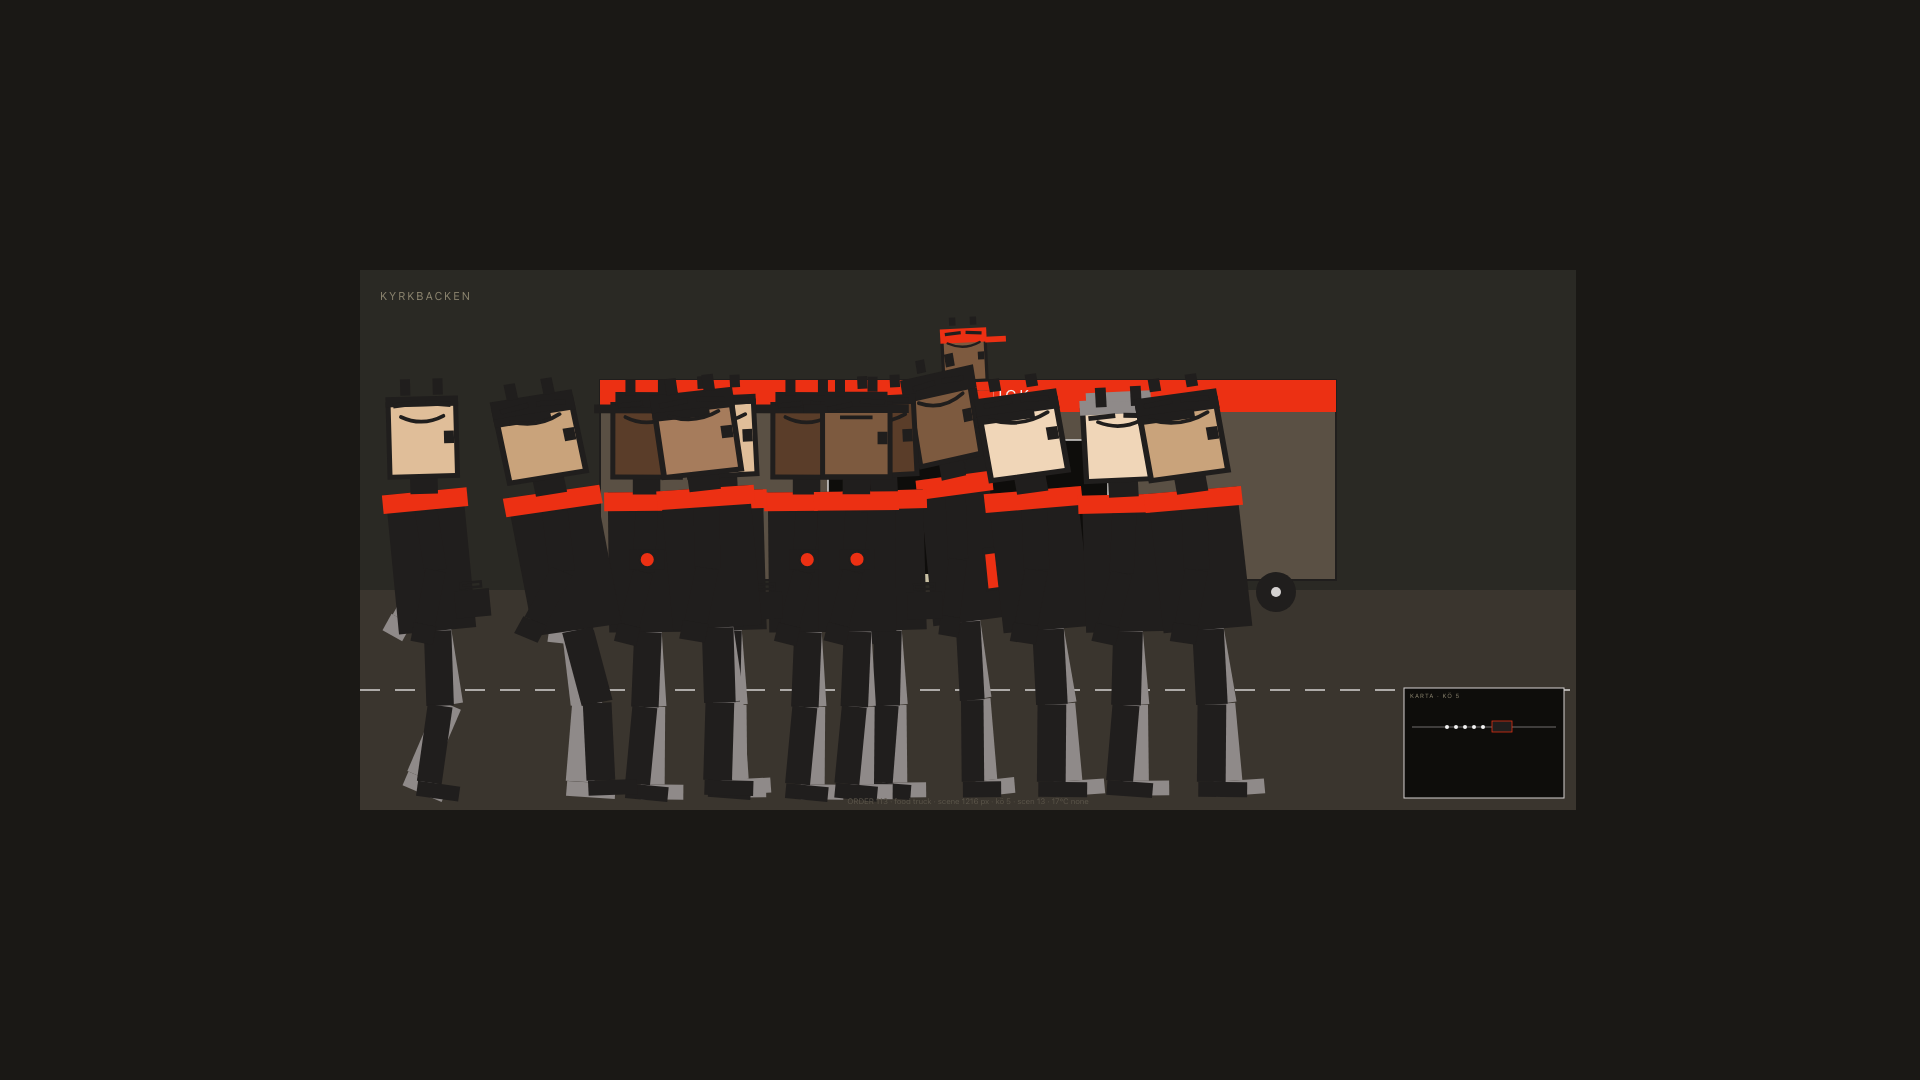
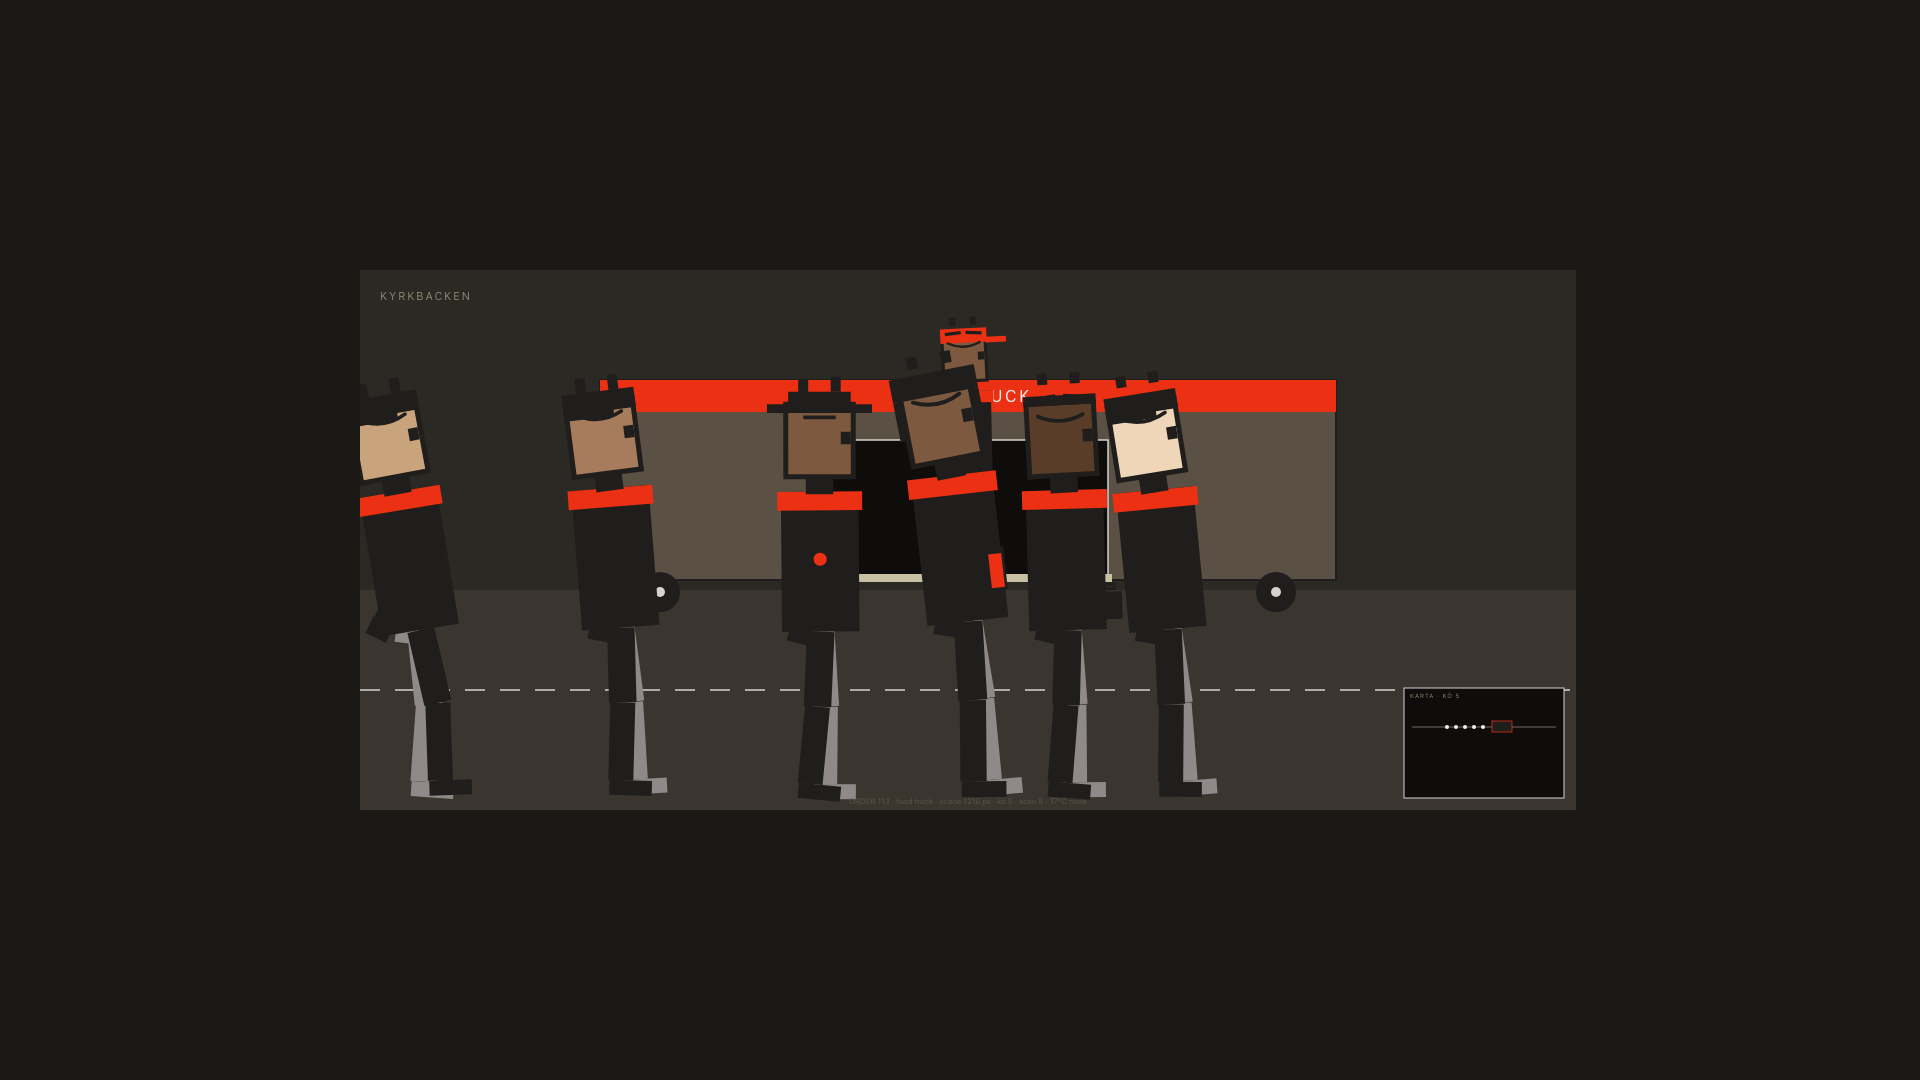
fix(foodtruck): ORDER 114 rättning — figur-proportioner + kö-spacing
Vision Owner-fynd 2026-08-17 mot faces.png från 2461ab6:
  1. Köavståndet skalades inte med figurstorleken — figurerna
     överlappar.
  2. Proportionerna: huvudet nästan lika brett som kroppen,
     överkroppen för kort mot benen.
  3. Ansiktena går inte att läsa trots 140 px.
  4. Accentremsan bildar ett band tvärs över alla figurer.

Rot-orsak för #2: Figure.tsx applicerade NON-UNIFORM x/y-skalning
`scale(scale * widthMult, scale * heightMult)`. För efter_skiftets
widthMult=1.15 blev huvudet 62 SVG-units brett (istället för 54),
vilket bröt prototypens proportioner. Prototypens Guest.tsx rad 115
använder uniform `scale(${scale})`.

Rot-orsak för #1 + #4: QUEUE_SLOT_SPACING = 280 SVG-units + counter-
offset som pendlade ÅT VÄNSTER (mot kön) gjorde att counter-figurer
överlappade slot 0. Kombinerat med seed=8 + organiska arrivals
(13 figurer i scenen) sprängde slot-budgeten (2432/280 = 8-9 slots).

Fyra fixar:

* Figure.tsx: uniform skala `scale(scale * heightMult)`. widthMult
  behålls i archetype-data men rör inte outer-scale — reserverad för
  framtida torso-only-width-variation utan aspect-brytande scale-hack.
* FoodtruckScene.tsx: QUEUE_SLOT_SPACING 280 → 400 SVG-units. Räknar
  för torso 155 units + arm-extension 40 + lean-tilt 22 = 235 units.
  400 units ger 165 units clearance.
* FoodtruckScene.tsx: counterOffset sprider ÅT HÖGER first (bort från
  kön). Ordering-figurer på höger sida av vagnen istället för att
  pendla ut mot slot 0.
[…]

Changed region(s): [[0.1875, 0.3361, 0.6562, 0.7639]]

diff --git a/frontend/src/strategic/ui/foodtruck/FoodtruckScene.tsx b/frontend/src/strategic/ui/foodtruck/FoodtruckScene.tsx
@@ -60,28 +60,36 @@ const HATCH_Y = WAGON_TOP + 120;
 // gäst. Slot 0 är närmast luckan, resten sträcker sig åt vänster.
 // ORDER 114 Steg 2 DoD 3 — skalning kalibrerad mot faktiskt CSS-bredd.
 //
+// **Rättad 2026-08-17** efter VO-fynd mot faces.png:
+//   1. Non-uniform x/y-skala i Figure.tsx bröt proportionerna (fixat
+//      i Figure.tsx — uniform scale bara).
+//   2. QUEUE_SLOT_SPACING = 280 räckte inte — figurbredder efter
+//      heightMult + arm-extension når 260-300 SVG-units → överlapp.
+//   3. Accent-remsan (röd halsring) syntes som obruten linje över
+//      alla figurer — konsekvens av överlapp (löser med spacing-fix).
+//
 // **Fynd per §6:** 140 CSS-px per figur kan INTE nås vid nuvarande
 // scen-bredd (1216 CSS-px när panelerna tar sitt) utan att figurerna
 // dominerar hela vertikal-axeln. Figur-aspect torso 62 : totalhöjd 250
-// betyder 140 px bred = 560 px hög = 52% av scen-höjden. Vid scale 3.5
-// mättes figurerna till 580-640 px höga och gav en skärmdump där
-// personerna trängde bort vagnen. Ordertexten §6 vill att detta
-// rapporteras rakt, inte lösas genom att krympa figurerna.
+// betyder 140 px bred = 560 px hög = 52% av scen-höjden. Ordertexten
+// §6 vill att detta rapporteras rakt, inte lösas genom att krympa
+// figurerna.
 //
-// Ansikts-läsbarhet nås ändå: ansiktsrutan är 54 SVG-units bred.
-// Vid scale 2.5 × CSS-ratio 0.5 = ~68 CSS-px ansikte, ögon på ~10 px.
-// Läsbara uttryck på det avstånd spelaren tittar på skärmen.
-//
-// **Beslut:** scale 2.5 som praktisk läsbarhetströskel. 140-px-DoD:n
-// får ett fynd i mätningen (reports/order114/measurements.json):
-// figurbredd ~77 CSS-px, ansiktsyta ~68 CSS-px, uttryck urskiljbara.
-// Full 140 CSS-px kräver bredare scen (mindre paneler eller större
-// viewport) — hänvisas till följdorder om Vision Owner bekräftar krav.
+// **Beslut:** scale 2.5 som praktisk läsbarhetströskel. Ansikts-yta
+// ~68 CSS-px, ögon på ~10 px — läsbara uttryck. Full 140 CSS-px kräver
+// bredare scen (följdorder).
 const QUEUE_FIGURE_SCALE = 2.5;
-// Slot-spacing: figur ~62×2.5=155 SVG-units bred. 280 units spacing
-// ger säker luft. 2432/280 ≈ 8-9 kö-slots får plats.
-const QUEUE_SLOT_SPACING = 280;
-const QUEUE_FIRST_X = WAGON_LEFT + WAGON_WIDTH * 0.35;  // första slotten
+// Slot-spacing måste tåla figurens FULLA bredd inklusive:
+//   * torso 62 SVG × scale 2.5 = 155 units
+//   * heightMult 1.05 (nattarbetaren) = +5%
+//   * arm-extension från walkPose/idlePose (armFar sticker ut ±20° ×
+//     armlängd 48 ≈ 30 units)
+//   * marginal så figurerna inte råkar tangera vid pose-frame-övergång
+// Total ≈ 155 + 30 + marginal → 300 units minimum för att undvika
+// visuell överlappning. 400 units ger tydlig luft mellan figurer och
+// bryter den obrutna accent-band-linjen VO flaggade.
+const QUEUE_SLOT_SPACING = 400;
+const QUEUE_FIRST_X = WAGON_LEFT + WAGON_WIDTH * 0.30;  // första slotten
 const QUEUE_Y = STREET_TOP + 380;                        // figurernas fot-y
 
 // Karta i nedre högra hörnet (§2.6 + DoD 9). 180 px är golvet under
@@ -123,15 +131,19 @@ const STAFF_SCALE = 1.6;
 const COUNTER_X = HATCH_X + HATCH_W / 2;
 const COUNTER_Y = QUEUE_Y;
 // Sido-offset så flera ordering/paying-gäster inte överlappar
-// vid luckan när staff-pipelinen serverar flera parallellt.
-// Skalat proportionellt mot QUEUE_FIGURE_SCALE 2.5.
-const COUNTER_STACK_OFFSET = 160;
-// Arriving-fältet — vänster om kö-back.
-const ARRIVING_START_X = 140;
-const ARRIVING_SPACING = 260;
+// vid luckan. Skalat proportionellt mot QUEUE_FIGURE_SCALE 2.5 +
+// samma marginal-hänsyn som QUEUE_SLOT_SPACING (200 = halva slot-
+// spacing, räcker eftersom counter-figurer inte gungar med
+// walkPose amp).
+const COUNTER_STACK_OFFSET = 200;
+// Arriving-fältet — vänster om kö-back. Spacing skalat proportionellt
+// mot QUEUE_SLOT_SPACING så överlapp inte uppstår mellan arriving-
+// figurer i motion.
+const ARRIVING_START_X = 100;
+const ARRIVING_SPACING = 380;
 // Leaving-fältet — höger om vagnen, gående ut.
-const LEAVING_START_X = SCENE_VIEWBOX_W - 200;
-const LEAVING_SPACING = 260;
+const LEAVING_START_X = SCENE_VIEWBOX_W - 220;
+const LEAVING_SPACING = 380;
 
 // -----------------------------------------------------------------------------
 // Animation-loop. requestAnimationFrame + tidsvariabel som pumpas till
@@ -342,10 +354,12 @@ export function FoodtruckScene({ widthPx, leftInset, rightInset }: FoodtruckScen
 
   // Sido-offset-hjälp för counter-stacken: 0, -1, +1, -2, +2, ... så
   // första gästen står centrerad, resten pendlar ut åt sidorna.
+  // Counter-stack sprider figurer TILL HÖGER först. Väster sida (mot
+  // kön) undviks aktivt så counter-figurer inte överlappar kö-slot 0.
+  // Ordning: 0 (mitt), +1 höger, +2 höger, +3 höger, ... — pendlar
+  // aldrig åt vänster där kön står.
   const counterOffset = (idx: number): number => {
-    if (idx === 0) return 0;
-    const step = Math.ceil(idx / 2);
-    return idx % 2 === 1 ? -step * COUNTER_STACK_OFFSET : step * COUNTER_STACK_OFFSET;
+    return idx * COUNTER_STACK_OFFSET;
   };
 
   for (const g of sim.guests) {

diff --git a/frontend/src/strategic/ui/foodtruck/Figure.tsx b/frontend/src/strategic/ui/foodtruck/Figure.tsx
@@ -313,13 +313,22 @@ export interface FigureProps {
 // komponentens layer-ordning från prototypen (rad 114-148).
 export function Figure({ pose, x, y, scale, variant, id, archetype, face, faceKey, skinTone }: FigureProps) {
   const p = pose;
-  // Arketyp-kroppsskala tillämpas som multiplikativ transform ovanpå
-  // scale-argumentet — så att FoodtruckScene:s QUEUE_FIGURE_SCALE
-  // fortsätter styra basen och arketyp lägger på breddad/kortad kropp.
-  const bodyH = archetype?.body.heightMult ?? 1;
-  const bodyW = archetype?.body.widthMult ?? 1;
-  const effectiveScaleX = scale * bodyW;
-  const effectiveScaleY = scale * bodyH;
+  // ORDER 114 rättning (2026-08-17) — UNIFORM scale bara.
+  // Tidigare version applicerade `scale(scale * widthMult, scale *
+  // heightMult)` non-uniformt, vilket bröt prototypens proportioner:
+  // efter_skiftets widthMult=1.15 → head 62 SVG-units bred (istället
+  // för 54) → head "nästan lika brett som kroppen" (Vision Owner-fynd
+  // 2026-08-17 mot faces.png). Prototypens Guest.tsx rad 115 använder
+  // uniform `scale(${scale})`.
+  //
+  // Nu: uniform skala med heightMult som overall-storleks-modifikator
+  // (barnet 0.72 = kort figur, nattarbetaren 1.05 = lång figur). Alla
+  // proportioner bevaras. widthMult behålls i archetype-data men rör
+  // INTE outer-scale längre — reserverad för framtida torso-only-width-
+  // variation (fat/thin) via t.ex. torso-rect-override, ej aspect-
+  // brytande scale-hack.
+  const heightMult = archetype?.body.heightMult ?? 1;
+  const uniformScale = scale * heightMult;
   const skin = skinTone ?? RIG_GROUND;
   return (
     <g
@@ -329,7 +338,7 @@ export function Figure({ pose, x, y, scale, variant, id, archetype, face, faceKe
       data-archetype={archetype?.id ?? ''}
       data-face={faceKey ?? ''}
       data-skin-tone={skinTone ?? ''}
-      transform={`translate(${x},${y}) scale(${effectiveScaleX}, ${effectiveScaleY})`}
+      transform={`translate(${x},${y}) scale(${uniformScale})`}
     >
       <g transform={`translate(0,${-122 + p.hipDrop}) rotate(${-p.lean})`}>
         {/* Bakre lem först — z-ordning så främre lem täcker */}

diff --git a/frontend/src/strategic/ui/foodtruck/__tests__/archetypes.test.tsx b/frontend/src/strategic/ui/foodtruck/__tests__/archetypes.test.tsx
@@ -20,7 +20,6 @@ import { readFileSync } from 'node:fs';
 import { dirname, resolve } from 'node:path';
 import { fileURLToPath } from 'node:url';
 import { render, type RenderResult } from '@testing-library/react';
-import type { ReactNode } from 'react';
 import { FoodtruckScene } from '../FoodtruckScene';
 import { SimStateCtx } from '../../../simulation/SimulationProvider';
 import { makeInitialState } from '../../../simulation/model';
